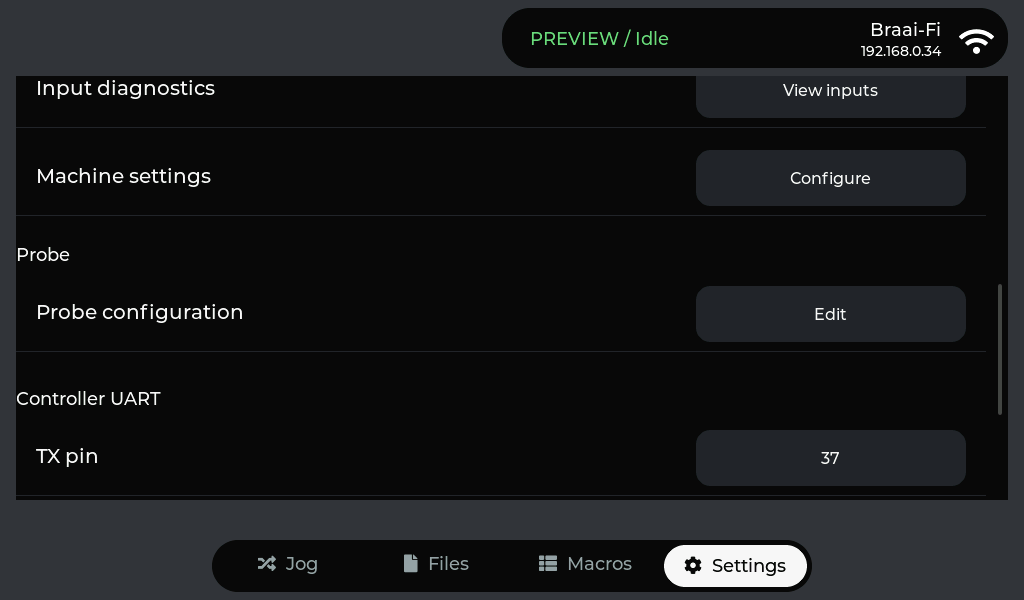
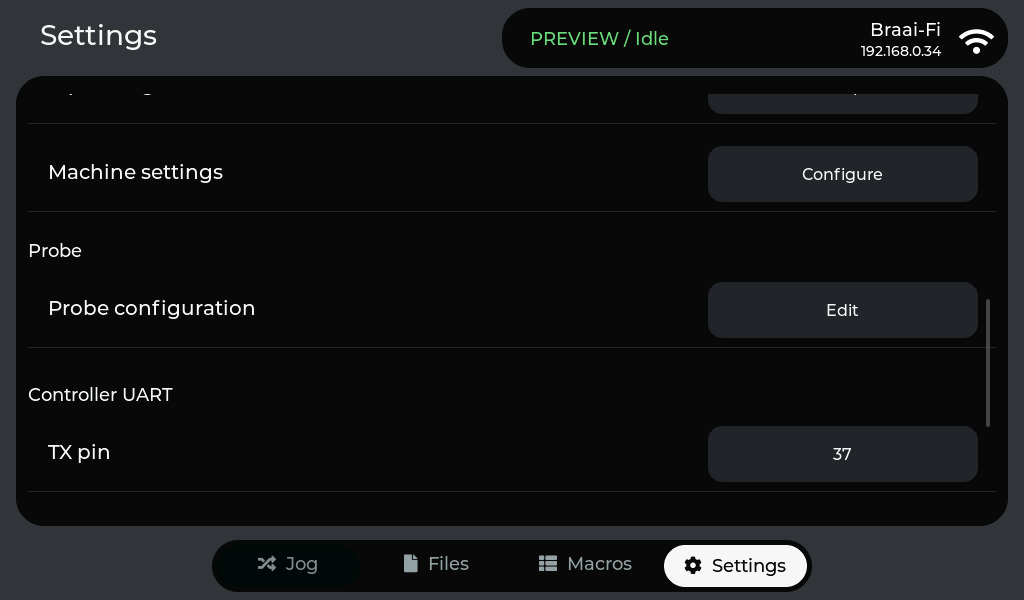
Match Settings header and rounded card to library screens

diff --git a/firmware/viewesmart-p4/main/panel_ui.cpp b/firmware/viewesmart-p4/main/panel_ui.cpp
@@ -74,7 +74,7 @@ static lv_obj_t *left_surface, *right_surface, *tabview, *page_layer;
 static lv_obj_t *wifi_header, *wifi_header_name, *wifi_header_ip, *wifi_icon;
 static lv_obj_t *root, *body, *brand_label, *state_label, *axis_work[3], *axis_machine[3],
     *axis_card[3], *nav[4];
-static lv_obj_t *accessories_btn;
+static lv_obj_t *accessories_btn, *settings_title;
 static bool inputs_open = false, accessories_open = false, spindles_open = false, macro_editor_open = false;
 static lv_obj_t *macro_fields[2];
 static lv_obj_t *home_btn, *stop_btn, *job_controls, *job_pause, *probe_btn;
@@ -135,7 +135,7 @@ static void machine_refresh();
 static void show_machine_settings(lv_event_t *);
 static void parent_page_content(lv_obj_t *parent) {
     lv_obj_t *objects[] = {left_surface, right_surface, axis_card[0], axis_card[1], axis_card[2],
-                           machine_heading, work_heading, dro_actions, jog_tools, job_controls, body, stop_btn};
+                           machine_heading, work_heading, dro_actions, jog_tools, job_controls, body, stop_btn, settings_title};
     for (auto obj : objects)
         if (obj && lv_obj_get_parent(obj) != parent)
             lv_obj_set_parent(obj, parent);
@@ -1162,6 +1162,7 @@ static void build_page() {
     lv_obj_set_x(page_layer, 0);
     parent_page_content(root);
     concept_restore();
+    if (settings_title) { lv_obj_delete(settings_title); settings_title = nullptr; }
     release_jog();
     jog_count = 0;
     wifi_row_status = nullptr;
@@ -1262,7 +1263,6 @@ static void build_page() {
     } else if (page == SettingsPage) {
         lv_obj_add_flag(body, LV_OBJ_FLAG_SCROLLABLE);
         lv_obj_set_scroll_dir(body, LV_DIR_VER);
-        label(body, "Settings", 0, 0, 960, 22, TEXT);
         lv_obj_t *application = settings_list_row(body, 44, 80);
         label(application, "Mode", 20, 28, 500, 20);
         static const char *const applications[] = {"CNC", "Actuator", ""};

diff --git a/tools/check-settings-rows.py b/tools/check-settings-rows.py
@@ -32,7 +32,7 @@ try:
    step=max(-260,min(260,delta));start=440 if step>0 else 150
    cmd(f'SWIPE 940 {start} 940 {start-step}');time.sleep(.5)
  scroll_to(480);shot('settings-service-rows')
- y=lambda local:round(76+local-data()['scroll_y'])
+ y=lambda local:round(70+local-data()['scroll_y'])
  tap(850,y(570));assert data()['dialog']=='preview-server';shot('settings-preview-server-large');tap(943,220);tap(744,108);assert data()['dialog']=='none'
  assert json.loads(cmd('SD STATE').removeprefix('@UGDATA '))['server']==original_server
  scroll_to(480);tap(850,y(658));assert data()['dialog']=='inputs';tap(916,62);assert data()['dialog']=='none'

diff --git a/AGENTS.md b/AGENTS.md
@@ -467,3 +467,7 @@ Settings uses the same graphite background, black list and dark neutral controls
 as the refreshed main screens. Keep rows flat, with simple bottom separators.
 When restoring source backups, touch their timestamps or clean the build; a newer
 object can otherwise retain reverted PSRAM buffer experiments.
+
+Settings keeps its heading above the rounded outer card, matching Files/Macros.
+The flat scrollable list is inset inside that card; keep the heading stationary
+while scrolling and include it in the normal page slide.

diff --git a/docs/concepts/settings-design-qa.md b/docs/concepts/settings-design-qa.md
@@ -1,7 +1,8 @@
 # Settings refinements
 
 The Settings page uses the shared dark palette and flat list rows with dividers,
-without rounded card backgrounds or shadows. Preview server, Input
+inside a rounded outer card, without individual row shadows. The heading sits
+above the card and stays visible while the list scrolls. Preview server, Input
 diagnostics and Machine settings use the same scrollable label/action rows as
 the other preferences. Probe configuration has one Edit row for XYZ offsets, feed and corner inset.
 
